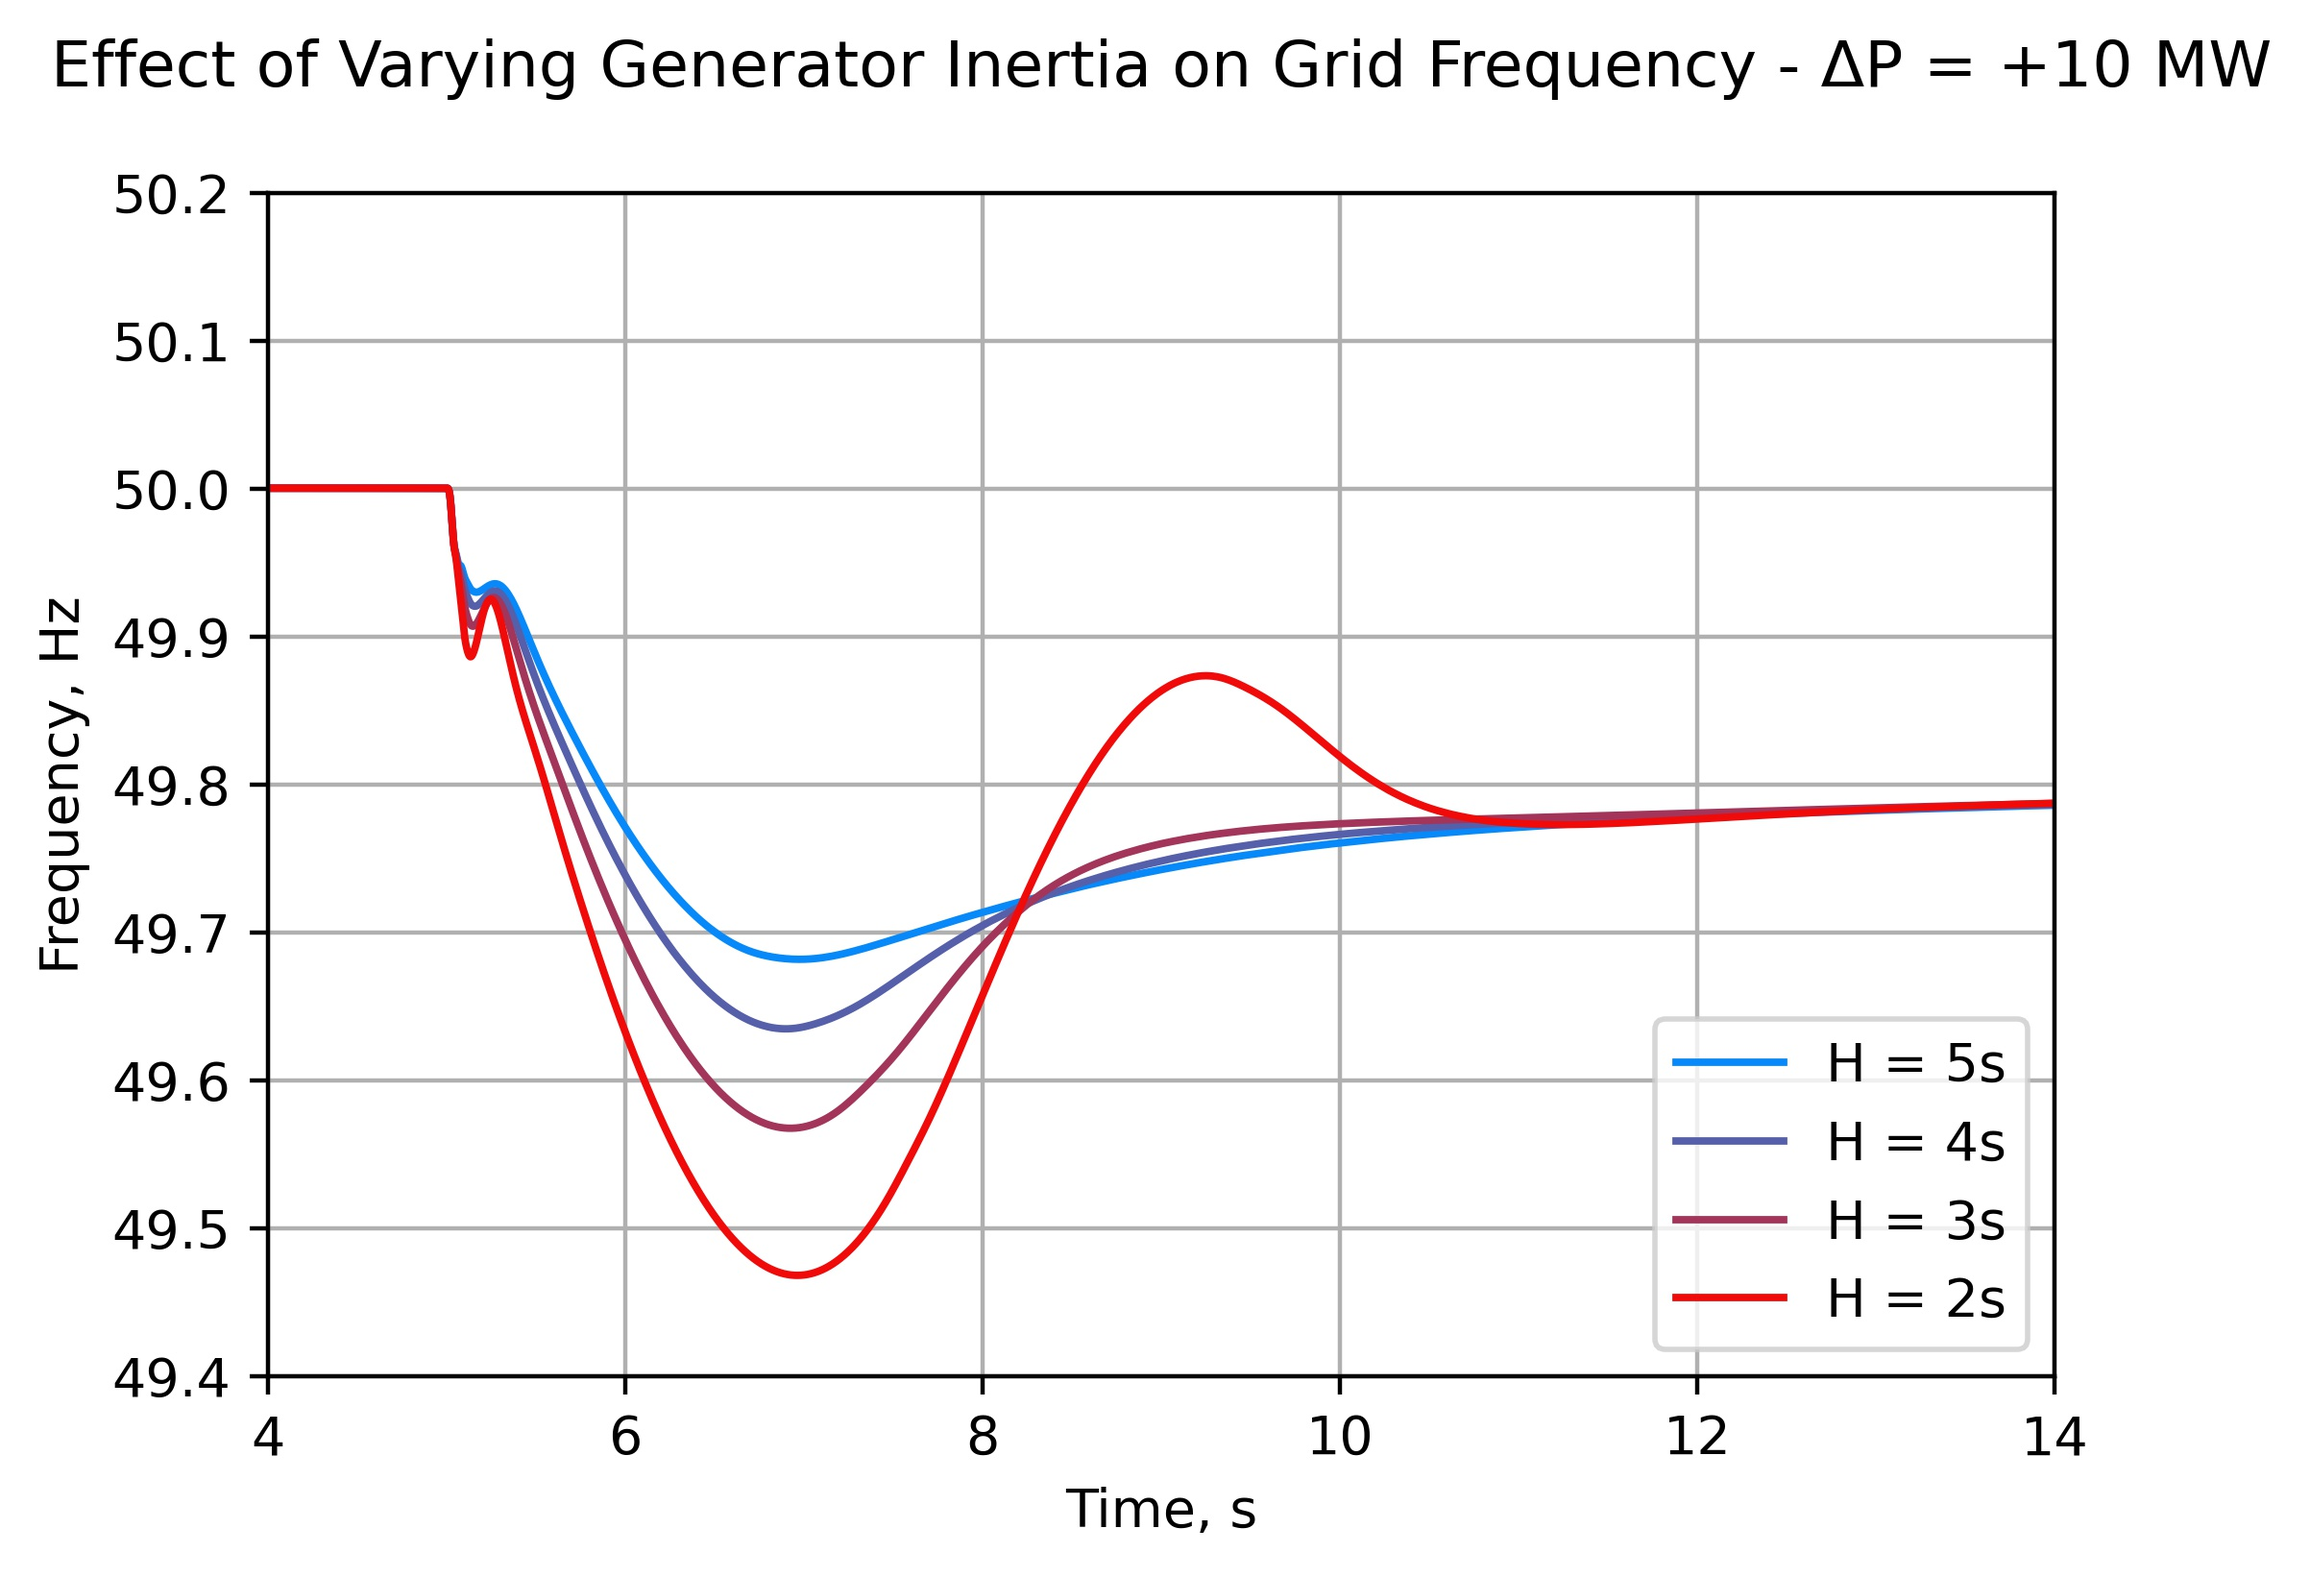
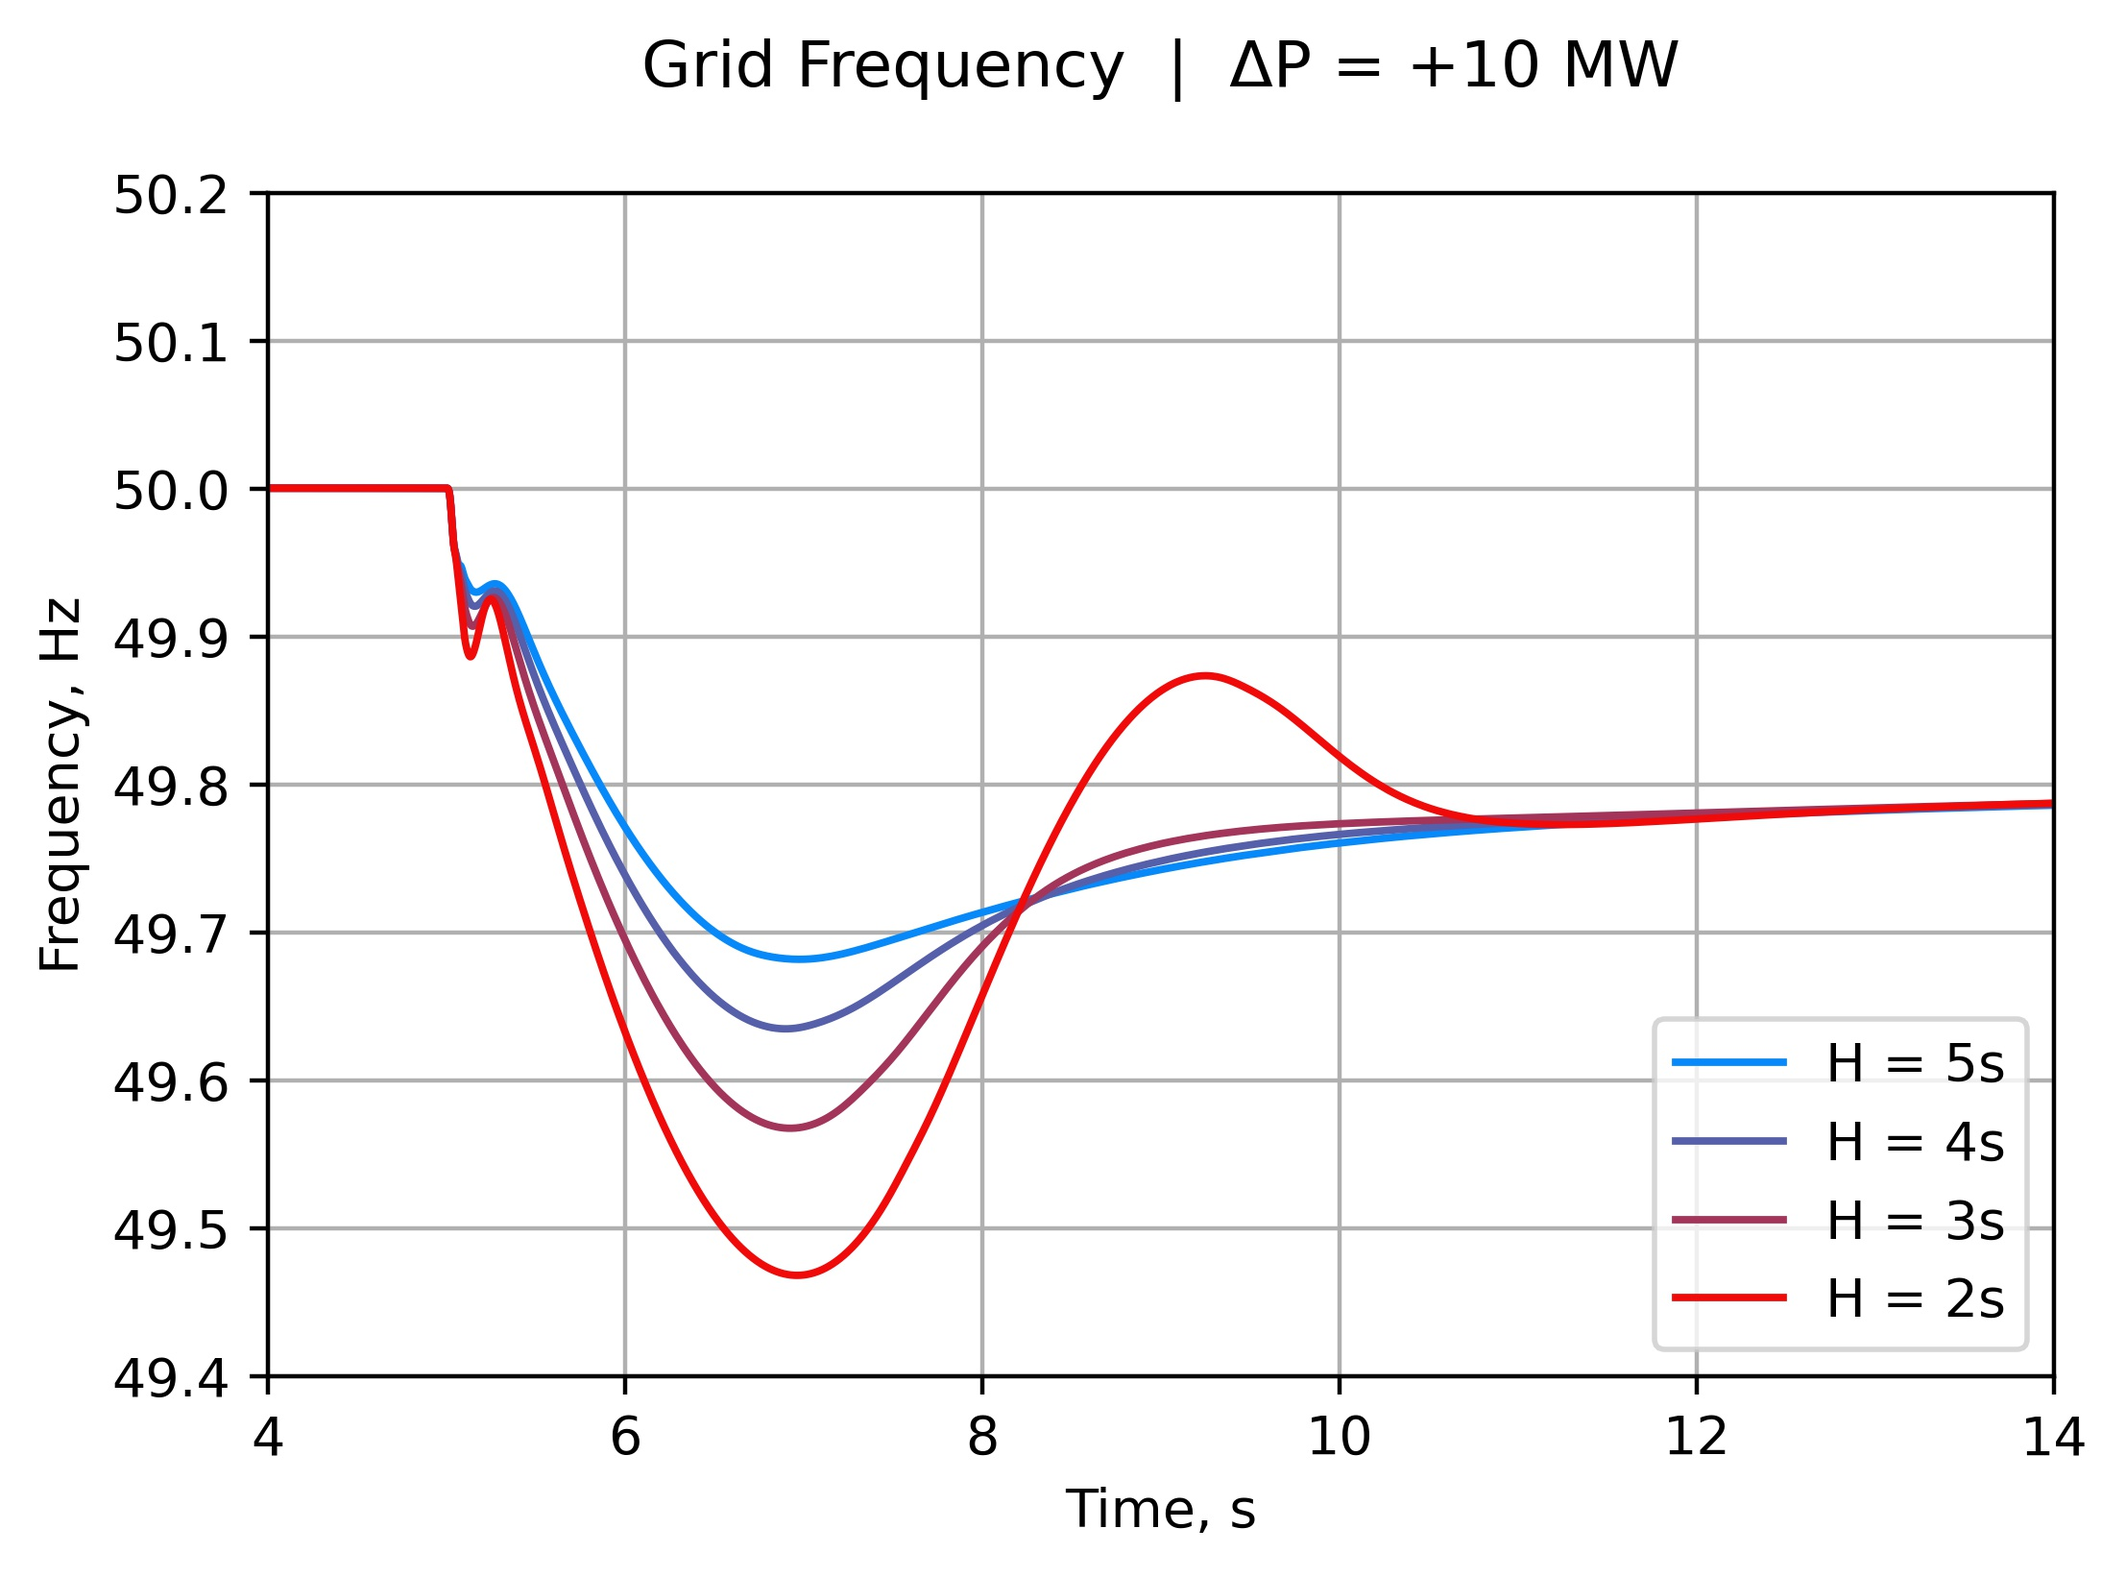
h-study function modifications

diff --git a/h-power.py b/h-power.py
@@ -18,7 +18,7 @@ for key in ds.keys():
     i += 1
 
 plt.grid()
-plt.title('Effect of Varying Generator Inertia on Generator Power Ouput - \u0394P = +10 MW', pad=20)
+plt.title('Generator Power Ouput  |  \u0394P = +10 MW', pad=20)
 plt.xlabel('Time, s')
 plt.ylabel('Power, MW')
 plt.xlim([4, 14])

diff --git a/h-frequency.py b/h-frequency.py
@@ -18,7 +18,7 @@ for key in ds.keys():
     i += 1
 
 plt.grid()
-plt.title('Effect of Varying Generator Inertia on Grid Frequency - \u0394P = +10 MW', pad=20)
+plt.title('Grid Frequency  |  \u0394P = +10 MW', pad=20)
 plt.xlabel('Time, s')
 plt.ylabel('Frequency, Hz')
 plt.xlim([4, 14])

diff --git a/h-rocof.py b/h-rocof.py
@@ -18,7 +18,7 @@ for key in ds.keys():
     i += 1
 
 plt.grid()
-plt.title('Effect of Varying Generator Inertia on Grid RoCoF - \u0394P = +10 MW', pad=20)
+plt.title('Grid RoCoF  |  \u0394P = +10 MW', pad=20)
 plt.xlabel('Time, s')
 plt.ylabel('RoCoF, Hz/s')
 plt.xlim([4, 14])
